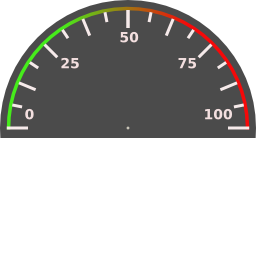
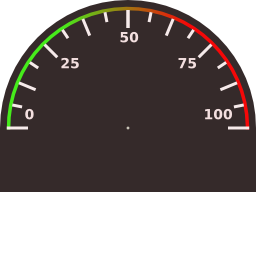
Add progress bar

diff --git a/__init__.py b/__init__.py
@@ -32,7 +32,8 @@ from kivy.uix.boxlayout import BoxLayout
 from kivy.uix.widget import Widget
 from kivy.uix.scatter import Scatter
 from kivy.uix.image import Image
-from kivy.uix.slider import Slider
+from kivy.uix.label import Label
+from kivy.uix.progressbar import ProgressBar
 
 class Gauge(Widget):
     '''
@@ -45,10 +46,11 @@ class Gauge(Widget):
     file_gauge = StringProperty("cadran.png")
     file_needle = StringProperty("needle.png")
     size_gauge = BoundedNumericProperty(128, min=128, max=256, errorvalue=128)
+    size_text = NumericProperty(10)
 
     def __init__(self, **kwargs):
         super(Gauge, self).__init__(**kwargs)
-        
+            
         self._gauge = Scatter(
             size=(self.size_gauge, self.size_gauge),
             do_rotate=False, 
@@ -69,11 +71,16 @@ class Gauge(Widget):
         _img_needle = Image(source=self.file_needle, size=(self.size_gauge, 
             self.size_gauge))
 
+        self._glab = Label(font_size=self.size_text, markup=True)
+        self._progress = ProgressBar(max=100, height=20, value=self.value)
+       
         self._gauge.add_widget(_img_gauge)
         self._needle.add_widget(_img_needle)
         
         self.add_widget(self._gauge)
         self.add_widget(self._needle)
+        self.add_widget(self._glab)
+        self.add_widget(self._progress)
 
         self.bind(pos=self._update)
         self.bind(size=self._update)
@@ -84,8 +91,13 @@ class Gauge(Widget):
         Update gauge and needle positions after sizing or positioning.
 
         '''
-        self._gauge.pos = (self.x, self.y)
+        self._gauge.pos = self.pos
         self._needle.pos = (self.x, self.y)
+        self._needle.center = self._gauge.center
+        self._glab.center_x = self._gauge.center_x
+        self._glab.center_y = self._gauge.center_y + (self.size_gauge/4)
+        self._progress.center_x = self._gauge.center_x
+        self._progress.center_y = self._gauge.center_y + (self.size_gauge/2)
 
     def _turn(self, *args):
         '''
@@ -95,17 +107,20 @@ class Gauge(Widget):
         self._needle.center_x = self._gauge.center_x
         self._needle.center_y = self._gauge.center_y
         self._needle.rotation = (50 * self.unit) - (self.value * self.unit)
+        self._glab.text = "[b]{0:.0f}[/b]".format(self.value)
+        self._progress.value = self.value
 
 
 class GaugeApp(App):
         def build(self):
+            from kivy.uix.slider import Slider
 
             def test(*ars):
                 gauge.value = s.value
                 print(s.value)
             
-            box = BoxLayout(orientation='vertical', spacing=0, padding=0)
-            gauge = Gauge(value=50, size_gauge=256)
+            box = BoxLayout(orientation='vertical', spacing=10, padding=10)
+            gauge = Gauge(value=50, size_gauge=256, size_text=18)
             box.add_widget(gauge)
             
             s = Slider(min=0, max=100, value=50)
